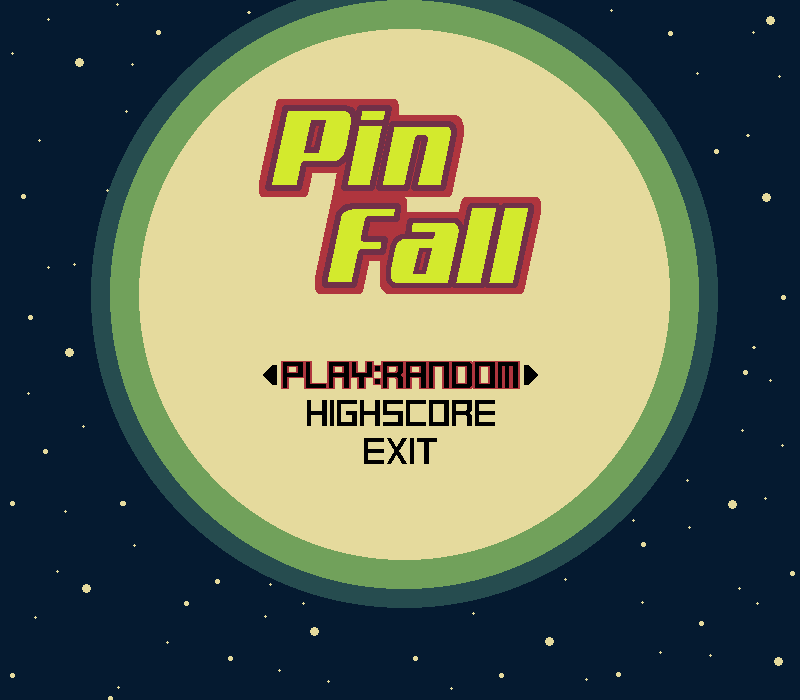
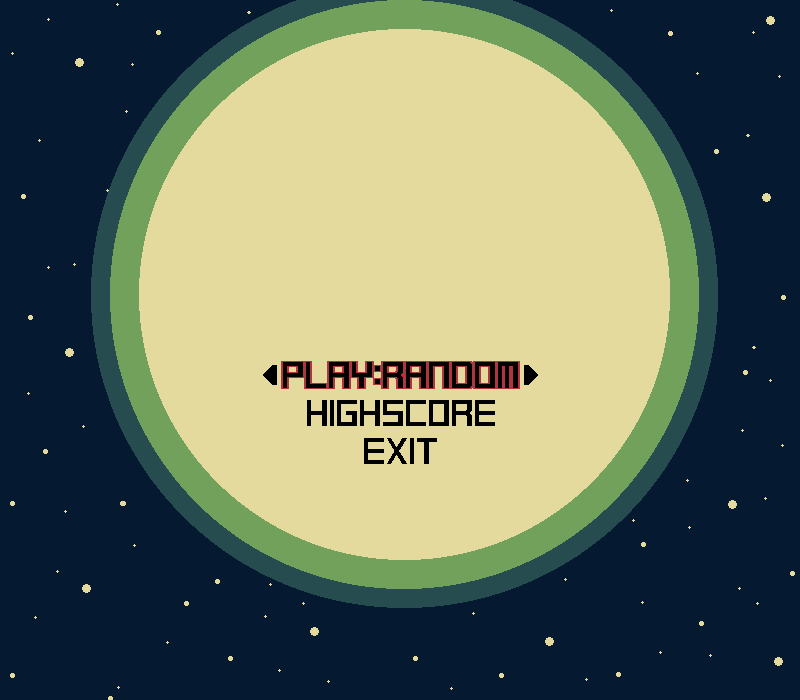
Refactor: Use GuiTitle for menu screen.

Changed region(s): [[0.3125, 0.12, 0.6875, 0.42]]

diff --git a/js/basic/Menu.js b/js/basic/Menu.js
@@ -20,9 +20,18 @@ Menu.prototype = Object.create(Phaser.State)
     // create menu screen
     p.create = function() {
         this.background = game.add.image(0, 0, "bg_menu")
+        this.title = new GuiTitle((CFG.WIDTH - CFG.TITLE.width) / 2, (CFG.HEIGHT - CFG.TITLE.height) / 2 - 150)
+        
         game.input.keyboard.onDownCallback = () => this.game.state.start("Game")
         
         console.log("created Menu")
+    },
+        
+    p.update = function() {
+        // get elapsed time since last update
+        deltaTime = game.time.physicsElapsedMS * 0.001
+        
+        this.title.update()
     }
     
     
